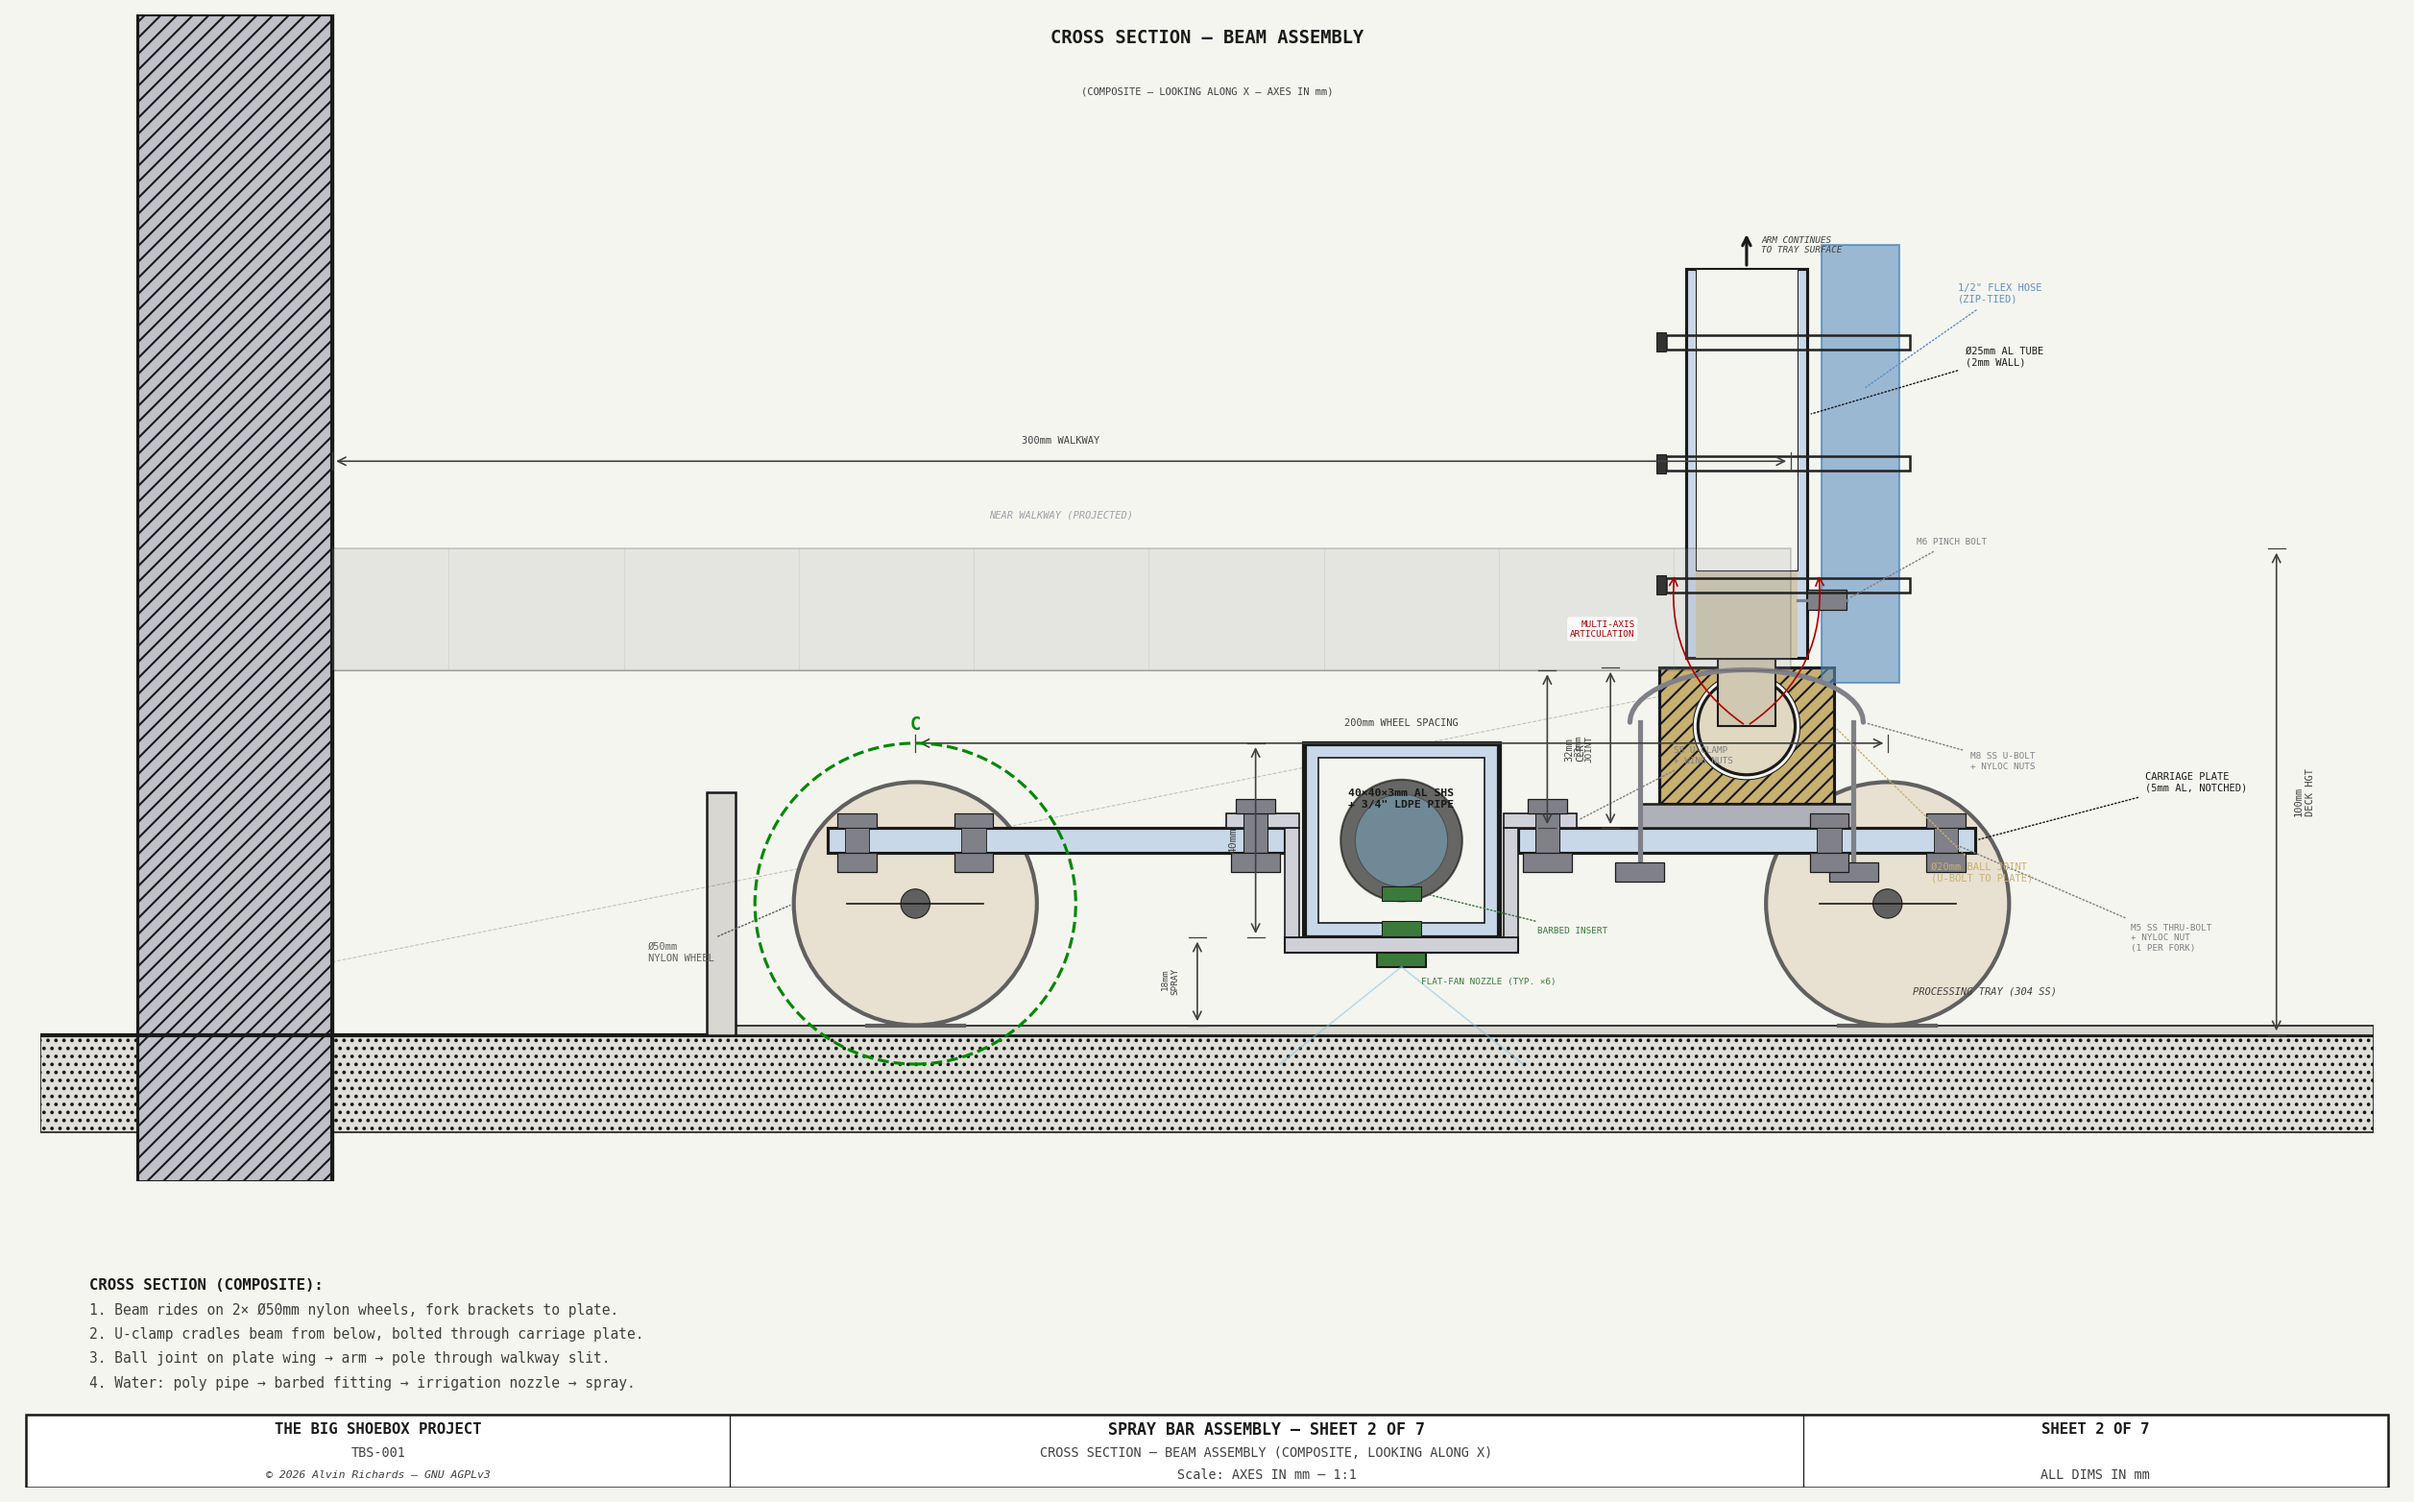
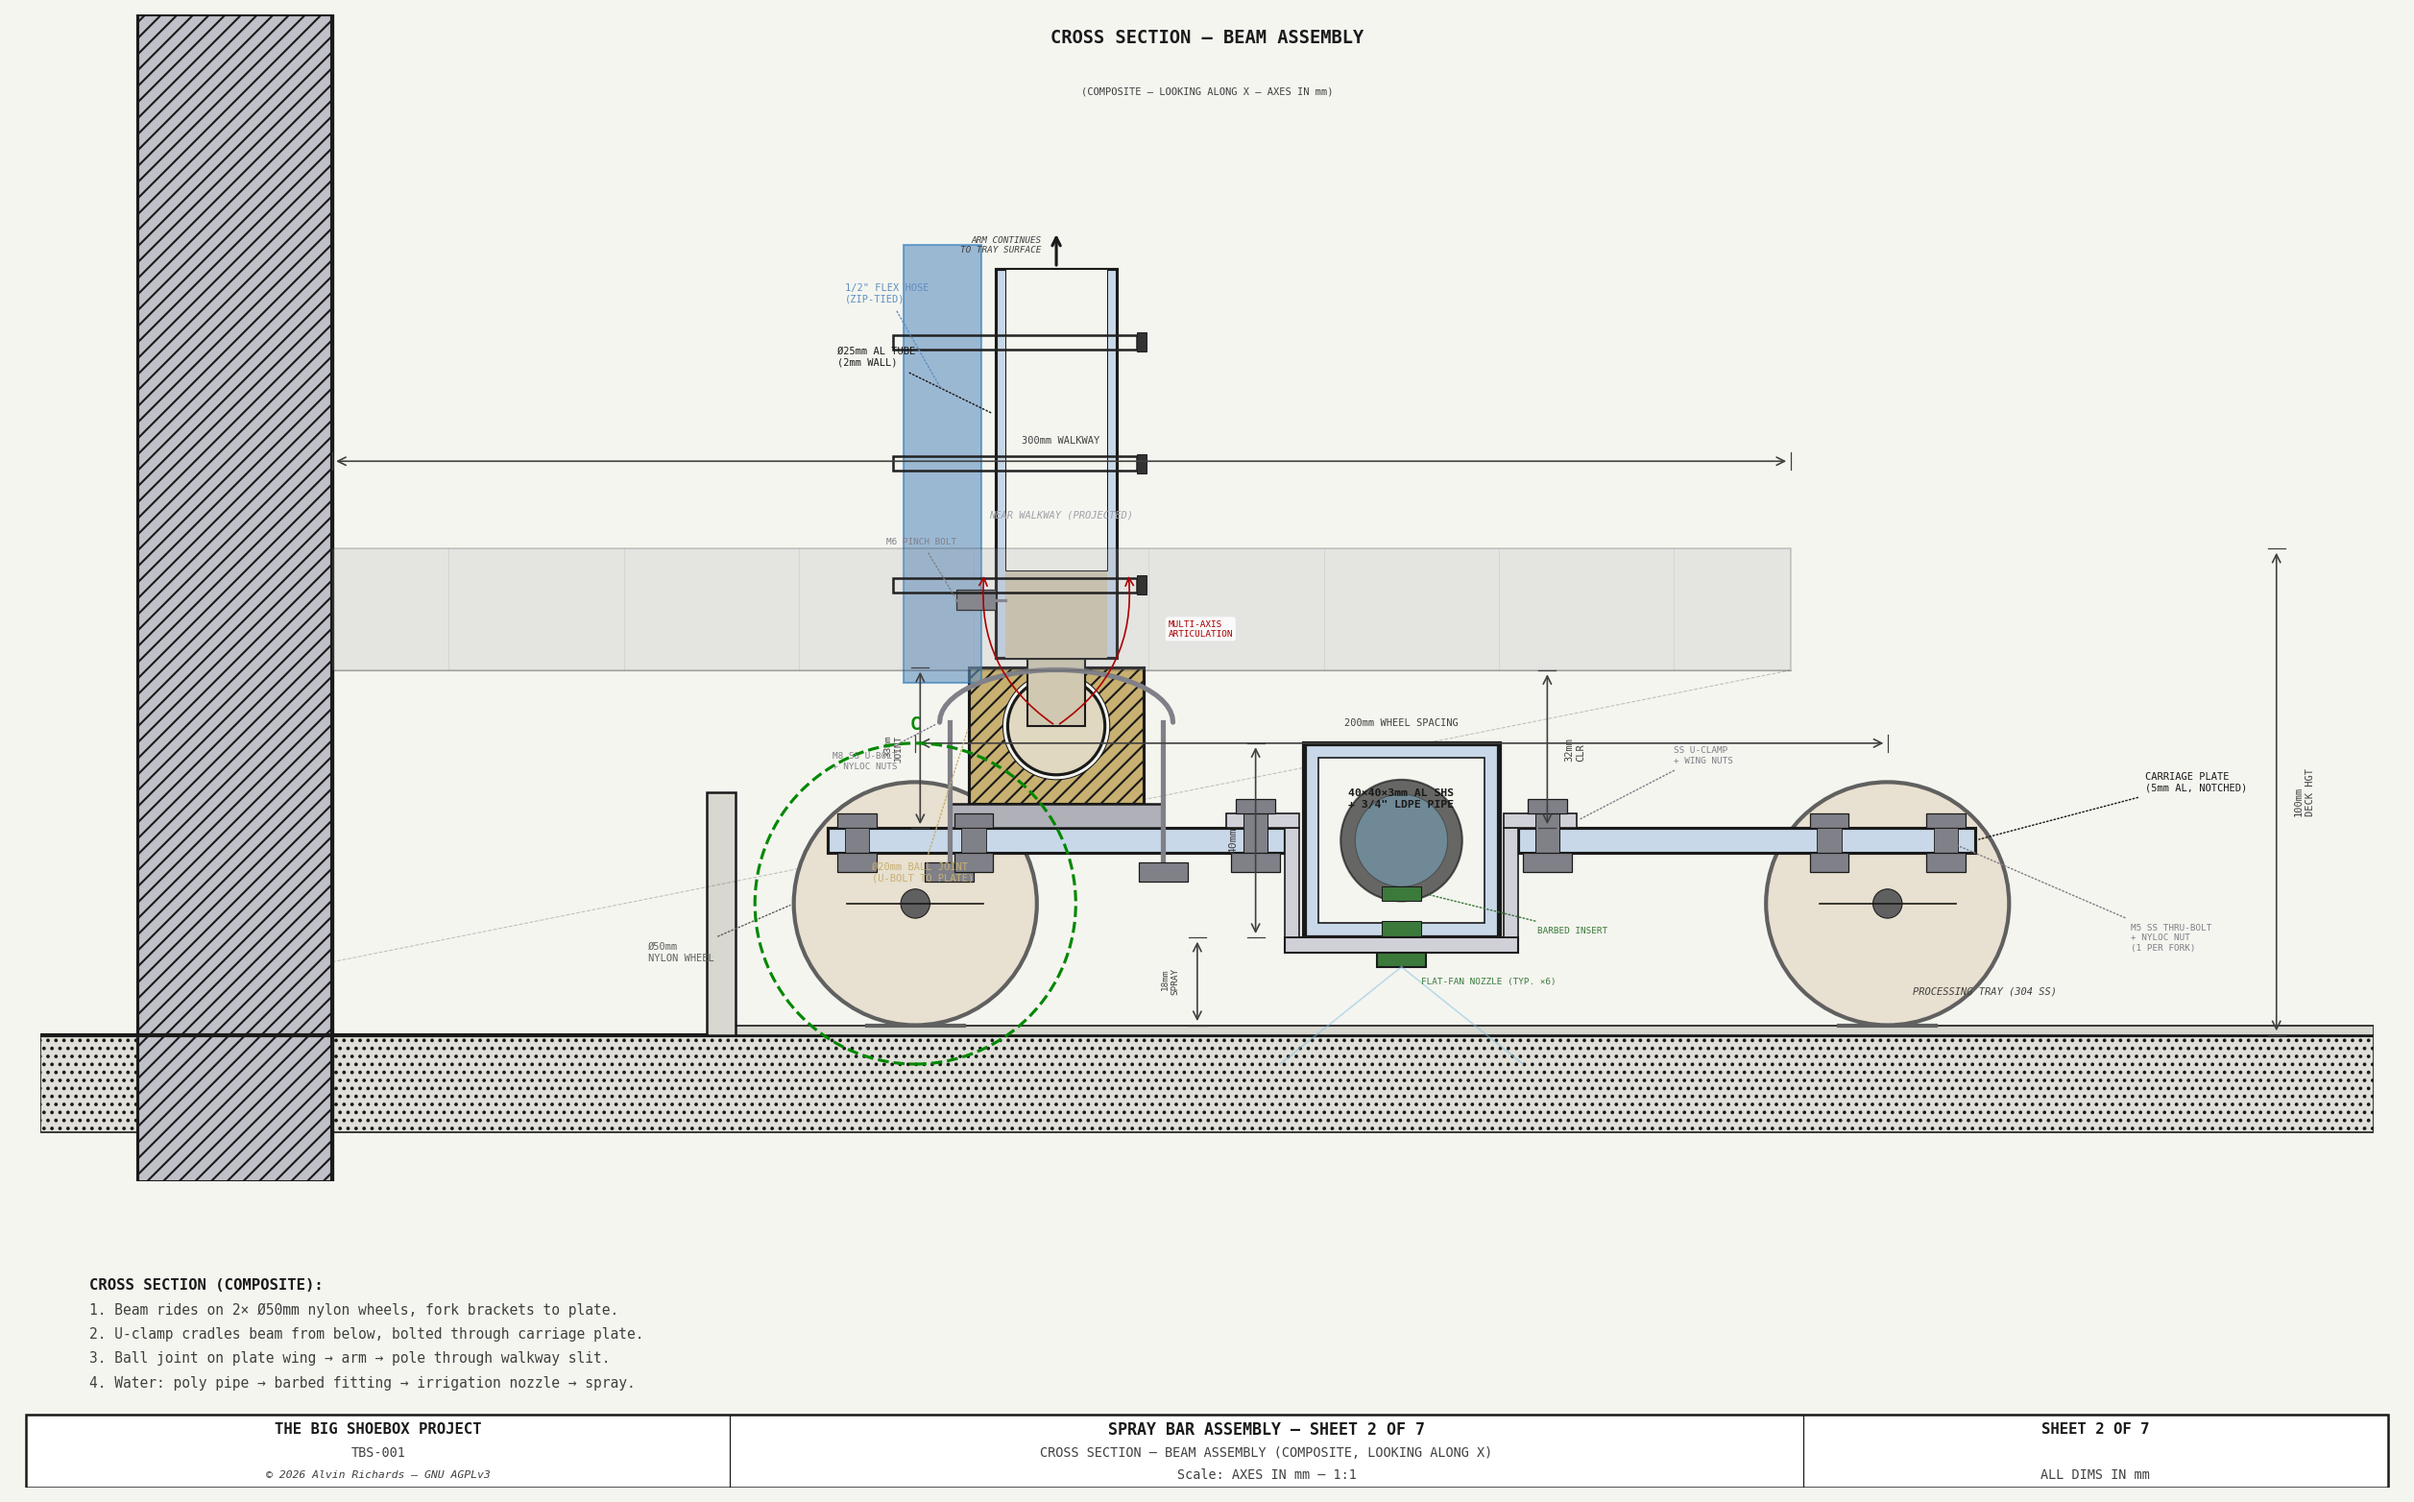
Sheet 2: move ball joint assembly from right to left plate wing
Mirror ball joint, arm, hose, pinch bolt, zip ties, and all associated
leaders to the left (near-walkway) side of the beam.

Changed region(s): [[0.3413, 0.1535, 0.5274, 0.6138], [0.6516, 0.1535, 0.8377, 0.5831]]

diff --git a/generate_spray_bar_diagram.py b/generate_spray_bar_diagram.py
@@ -704,7 +704,7 @@ def draw_sheet2():
     STUD_EXT = 20
     C_JOINT = "#C8B070"
 
-    bj_yd = (notch_r + plate_yd_r) / 2
+    bj_yd = (notch_l + plate_yd_l) / 2
     flange_bot_z = plate_top_z
     socket_bot_z = flange_bot_z + FLANGE_T
     ball_ctr_z = socket_bot_z + SOCKET_H / 2 + 2
@@ -776,9 +776,9 @@ def draw_sheet2():
 
     # Pinch bolt
     pinch_z = arm_base_z_bj + 12
-    ax2.add_patch(Rectangle((bj_yd + ARM_OD / 2, pinch_z - 2), 8, 4,
+    ax2.add_patch(Rectangle((bj_yd - ARM_OD / 2 - 8, pinch_z - 2), 8, 4,
                  fc=C_BOLT, ec=C_FRAME, lw=0.6, zorder=9))
-    ax2.plot([bj_yd + ARM_ID / 2, bj_yd + ARM_OD / 2 + 8],
+    ax2.plot([bj_yd - ARM_OD / 2 - 8, bj_yd - ARM_ID / 2],
              [pinch_z, pinch_z],
              color=C_BOLT, lw=1.5, zorder=9)
 
@@ -786,9 +786,9 @@ def draw_sheet2():
     ax2.annotate("", xy=(bj_yd, arm_top_z_bj + 8),
                  xytext=(bj_yd, arm_top_z_bj),
                  arrowprops=dict(arrowstyle="->", color=C_FRAME, lw=1.5), zorder=12)
-    ax2.text(bj_yd + 3, arm_top_z_bj + 5,
+    ax2.text(bj_yd - 3, arm_top_z_bj + 5,
              "ARM CONTINUES\nTO TRAY SURFACE",
-             ha="left", va="center", fontsize=4.5, color=C_DIM,
+             ha="right", va="center", fontsize=4.5, color=C_DIM,
              style="italic", **FONT, zorder=15)
 
     # Movement arcs
@@ -802,50 +802,50 @@ def draw_sheet2():
             arrowprops=dict(arrowstyle="->", color="#AA0000", lw=0.8,
                             connectionstyle=f"arc3,rad={0.3 if arc_ang > 0 else -0.3}"),
             zorder=12)
-    ax2.text(bj_yd - SOCKET_OD / 2 - 5, ball_ctr_z + 20,
+    ax2.text(bj_yd + SOCKET_OD / 2 + 5, ball_ctr_z + 20,
              "MULTI-AXIS\nARTICULATION",
-             ha="right", va="center", fontsize=4.5, color="#AA0000",
+             ha="left", va="center", fontsize=4.5, color="#AA0000",
              bbox=_bbox_cs, **FONT, zorder=15)
 
     # ── Water hose zip-tied to arm ───────────────────────────────────────
     hose_od = 16
-    hose_ctr_yd = bj_yd + ARM_OD / 2 + hose_od / 2 + 3
+    hose_ctr_yd = bj_yd - ARM_OD / 2 - hose_od / 2 - 3
 
     ax2.add_patch(Rectangle((hose_ctr_yd - hose_od / 2, arm_base_z_bj - 5),
                   hose_od, arm_top_z_bj - arm_base_z_bj + 10,
                   fc=C_HOSE, ec=C_BLUE, lw=1.0, alpha=0.6, zorder=7.5))
 
     for zt_z in [arm_base_z_bj + 15, arm_base_z_bj + 40, arm_base_z_bj + 65]:
-        zt_l = bj_yd - ARM_OD / 2 - 4
-        zt_r = hose_ctr_yd + hose_od / 2 + 2
+        zt_l = hose_ctr_yd - hose_od / 2 - 2
+        zt_r = bj_yd + ARM_OD / 2 + 4
         ax2.add_patch(Rectangle((zt_l, zt_z - 1.5), zt_r - zt_l, 3,
                      fc="none", ec="#222222", lw=1.2, zorder=11))
-        ax2.add_patch(Rectangle((zt_l - 2, zt_z - 2), 2, 4,
+        ax2.add_patch(Rectangle((zt_r, zt_z - 2), 2, 4,
                      fc="#333333", ec="#222222", lw=0.5, zorder=11))
 
     # ── Labels ───────────────────────────────────────────────────────────
-    leader(ax2, bj_yd + SOCKET_OD / 2, ball_ctr_z,
-           bj_yd + SOCKET_OD / 2 + 20, ball_ctr_z - 30,
+    leader(ax2, bj_yd - SOCKET_OD / 2, ball_ctr_z,
+           bj_yd - SOCKET_OD / 2 - 20, ball_ctr_z - 30,
            f"Ø{BALL_DIA}mm BALL JOINT\n(U-BOLT TO PLATE)",
            fs=5, color=C_JOINT, font=FONT, zorder=20)
 
-    leader(ax2, ubolt_r, ub_arc_cz,
-           ubolt_r + 22, ub_arc_cz - 8,
+    leader(ax2, ubolt_l, ub_arc_cz,
+           ubolt_l - 22, ub_arc_cz - 8,
            "M8 SS U-BOLT\n+ NYLOC NUTS",
            fs=4.5, color=C_BOLT, font=FONT, zorder=20)
 
-    leader(ax2, bj_yd + ARM_OD / 2 + 8, pinch_z,
-           bj_yd + 35, pinch_z + 12,
+    leader(ax2, bj_yd - ARM_OD / 2 - 8, pinch_z,
+           bj_yd - 35, pinch_z + 12,
            "M6 PINCH BOLT",
            fs=4.5, color=C_BOLT, font=FONT, zorder=20)
 
-    leader(ax2, bj_yd + ARM_OD / 2, arm_base_z_bj + 50,
-           bj_yd + 45, arm_base_z_bj + 62,
+    leader(ax2, bj_yd - ARM_OD / 2, arm_base_z_bj + 50,
+           bj_yd - 45, arm_base_z_bj + 62,
            f"Ø{ARM_OD}mm AL TUBE\n(2mm WALL)",
            fs=5, color=C_FRAME, font=FONT, zorder=20)
 
     leader(ax2, hose_ctr_yd, arm_base_z_bj + 55,
-           hose_ctr_yd + 20, arm_base_z_bj + 75,
+           hose_ctr_yd - 20, arm_base_z_bj + 75,
            "1/2\" FLEX HOSE\n(ZIP-TIED)",
            fs=5, color=C_HOSE, font=FONT, zorder=20)
 
